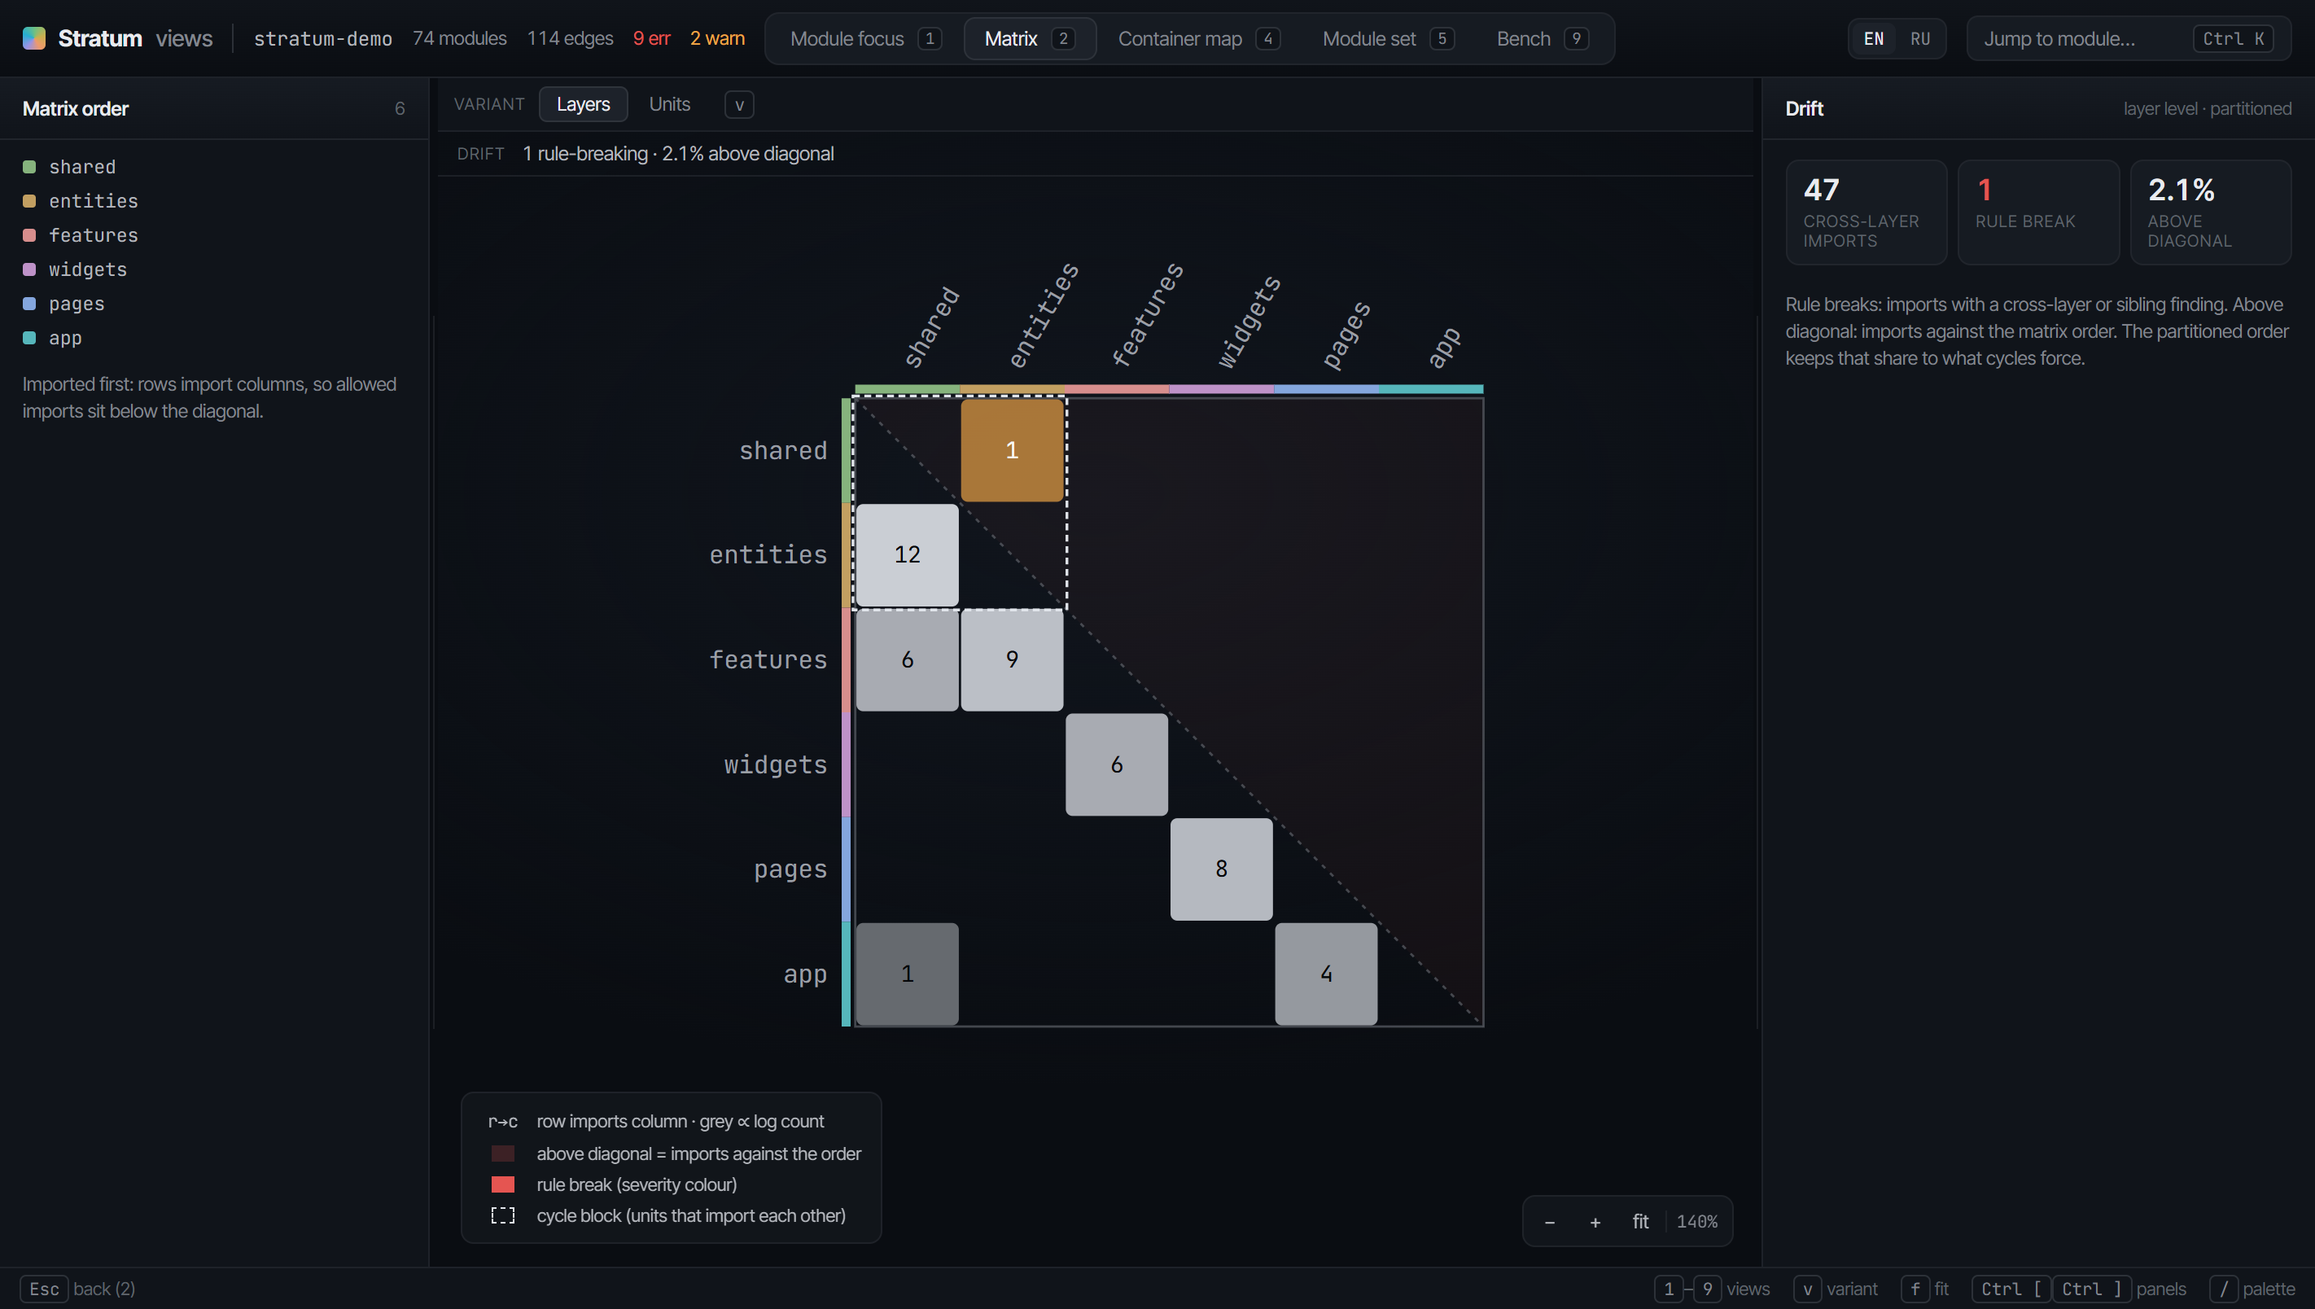
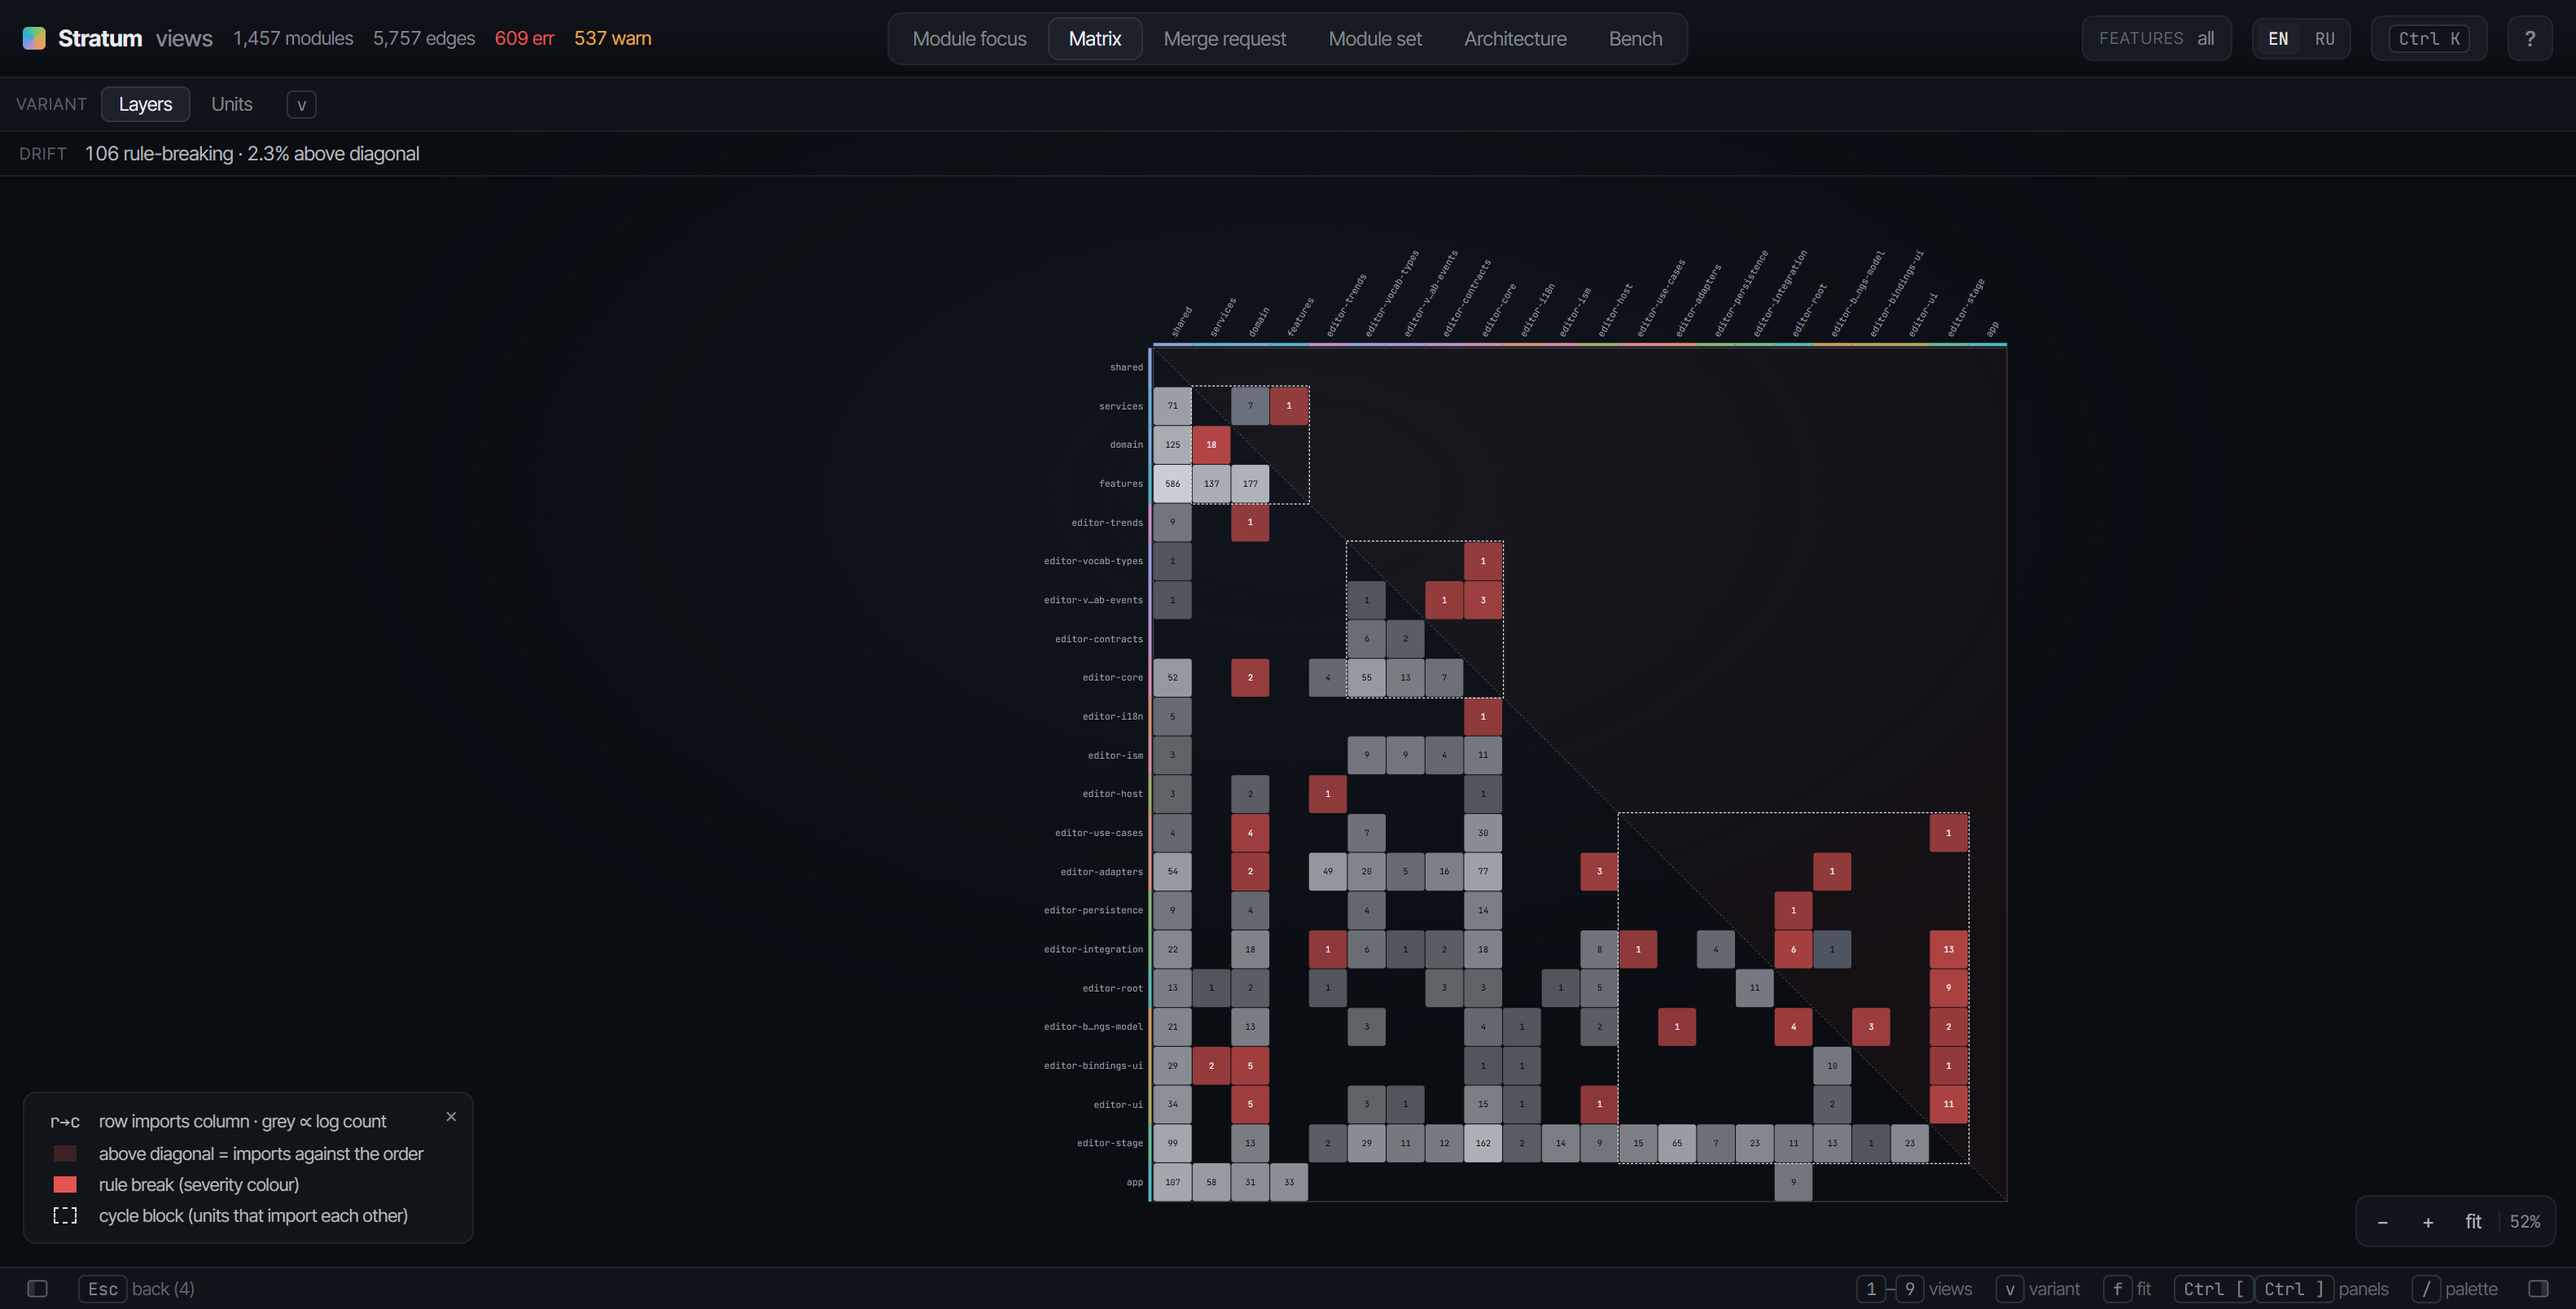
docs: README screenshots of the 0.7.0 visualizer: Merge request as the hero, the comment card, a TS-to-Rust contract, Module focus and the layer matrix

diff --git a/README.md b/README.md
@@ -12,7 +12,7 @@ Fast enough to run on every edit, written for AI coding agents and CI.
 [![License: MIT](https://img.shields.io/badge/license-MIT-66c29a)](LICENSE)
 [![Part of jig](https://img.shields.io/badge/part%20of-jig-e0a85c)](https://github.com/PetukhovArt/jig)
 
-<a href="docs/assets/visualizer-focus.webp"><img src="docs/assets/visualizer-focus.webp" alt="Stratum visualizer: a module, everything that imports it and everything it imports, with its layer rules" width="100%" /></a>
+<a href="docs/assets/visualizer-merge-request.webp"><img src="docs/assets/visualizer-merge-request.webp" alt="Stratum visualizer, Merge request: every changed folder in its layer with its added and removed imports, and each import that breaks a rule drawn as a red arrow named by the rule" width="100%" /></a>
 
 </div>
 
@@ -45,11 +45,19 @@ warning stratum/no-cross-layer-import (1) - stratum-lint explain stratum/no-cros
 
 <table>
 <tr>
-<td width="50%"><a href="docs/assets/visualizer-violation.webp"><img src="docs/assets/visualizer-violation.webp" alt="A module with two violations and their rules" /></a></td>
-<td width="50%"><a href="docs/assets/visualizer-matrix.webp"><img src="docs/assets/visualizer-matrix.webp" alt="Layer dependency matrix with a rule break above the diagonal" /></a></td>
+<td width="50%"><a href="docs/assets/visualizer-comment-card.webp"><img src="docs/assets/visualizer-comment-card.webp" alt="Merge request comment card: imports that break rules, stage changes and fixed violations" /></a></td>
+<td width="50%"><a href="docs/assets/visualizer-contract.webp"><img src="docs/assets/visualizer-contract.webp" alt="Architecture System level: a TypeScript invoke call beside the Rust command it reaches" /></a></td>
 </tr>
 <tr>
-<td align="center"><sub>Every violation, with the rule and the layers the module may import</sub></td>
+<td align="center"><sub>The merge request as a comment: rule breaks, stage changes, fixes</sub></td>
+<td align="center"><sub>Contracts across systems: the TypeScript call beside its Rust command</sub></td>
+</tr>
+<tr>
+<td width="50%"><a href="docs/assets/visualizer-focus.webp"><img src="docs/assets/visualizer-focus.webp" alt="Module focus: a module, every module that imports it, grouped by layer and slice, and its layer rules" /></a></td>
+<td width="50%"><a href="docs/assets/visualizer-matrix.webp"><img src="docs/assets/visualizer-matrix.webp" alt="Layer dependency matrix with rule breaks above the diagonal" /></a></td>
+</tr>
+<tr>
+<td align="center"><sub>A module, everyone who imports it and the layers it may import</sub></td>
 <td align="center"><sub>Layer matrix: imports against the order sit above the diagonal</sub></td>
 </tr>
 </table>

diff --git a/npm/stratum-lint/README.md b/npm/stratum-lint/README.md
@@ -2,7 +2,7 @@
 
 npm package for the [Stratum](https://github.com/PetukhovArt/stratum) architecture linter: the `stratum-lint` CLI and the `stratum-lsp` stdio language server.
 
-[![Stratum visualizer](https://raw.githubusercontent.com/PetukhovArt/stratum/main/docs/assets/visualizer-focus.webp)](https://raw.githubusercontent.com/PetukhovArt/stratum/main/docs/assets/visualizer-focus.webp)
+[![Stratum visualizer](https://raw.githubusercontent.com/PetukhovArt/stratum/main/docs/assets/visualizer-merge-request.webp)](https://raw.githubusercontent.com/PetukhovArt/stratum/main/docs/assets/visualizer-merge-request.webp)
 
 ```
 npm install -g @petukhovart/stratum-lint
